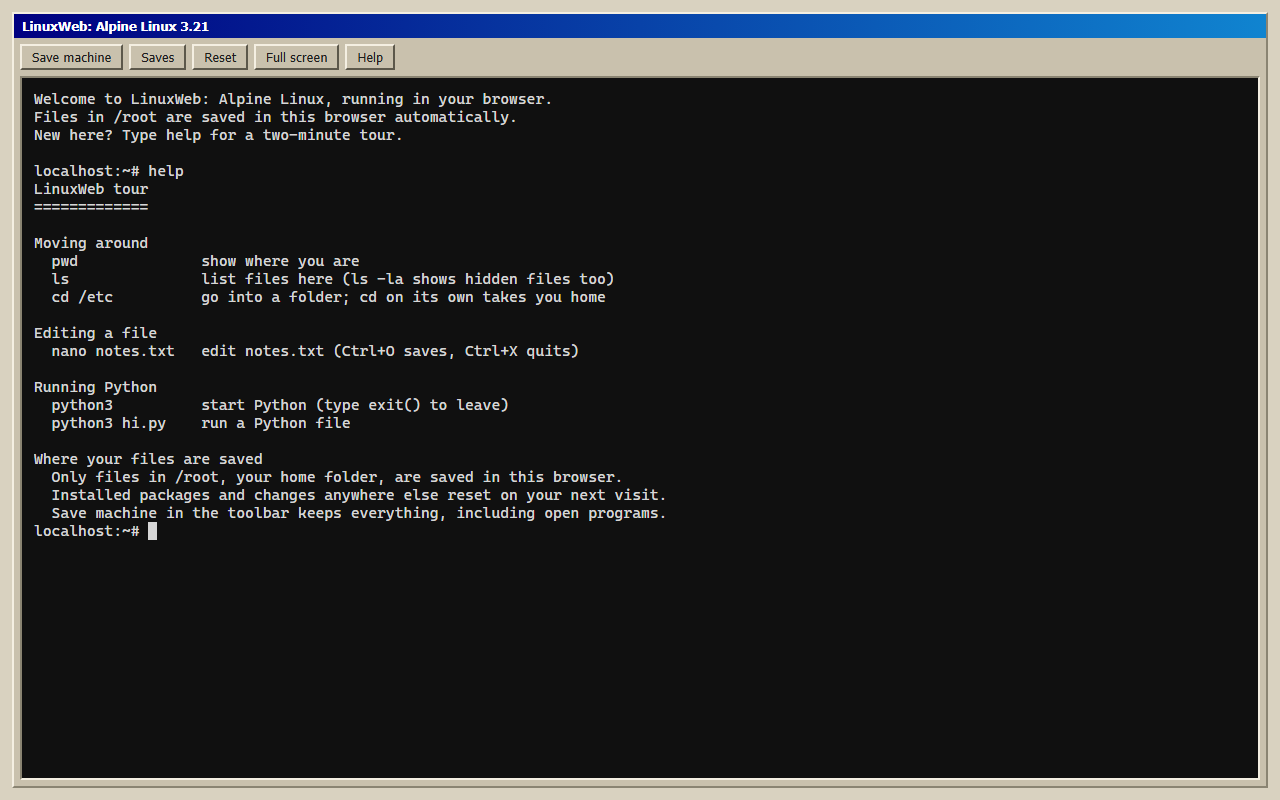
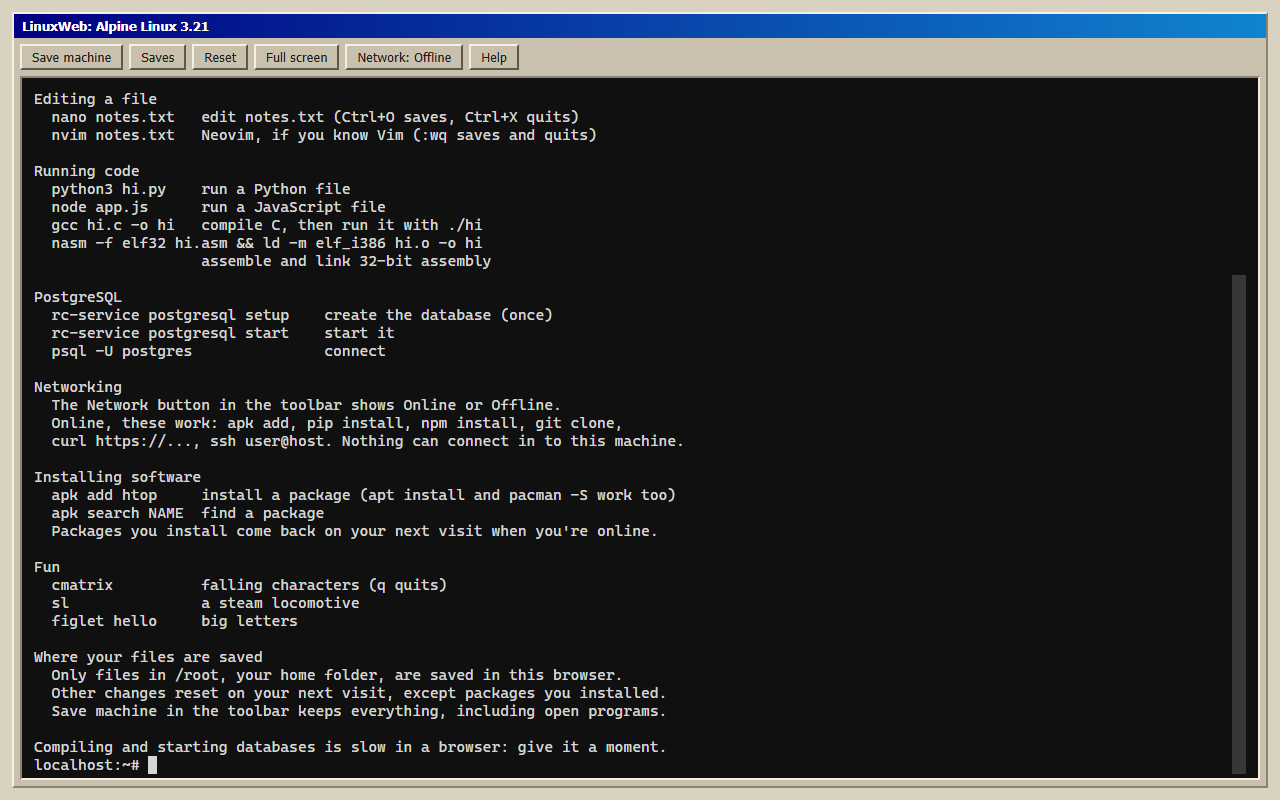
docs: new README screenshot with the Network button and the longer tour
The tour is now taller than the capture window, so the script waits for
its last line instead of its heading.

diff --git a/scripts/readme-images.ts b/scripts/readme-images.ts
@@ -16,7 +16,8 @@ await app.locator(".xterm-rows").getByText("localhost:~#").first().waitFor({ tim
 await app.locator(".xterm-screen").click();
 await app.keyboard.type("help");
 await app.keyboard.press("Enter");
-await app.locator(".xterm-rows").getByText("LinuxWeb tour").waitFor({ timeout: 60_000 });
+// The tour is taller than the window, so wait for its last line rather than its heading.
+await app.locator(".xterm-rows").getByText("Compiling and starting databases is slow").waitFor({ timeout: 60_000 });
 await app.screenshot({ path: root("docs/screenshot.png") });
 
 await browser.close();
